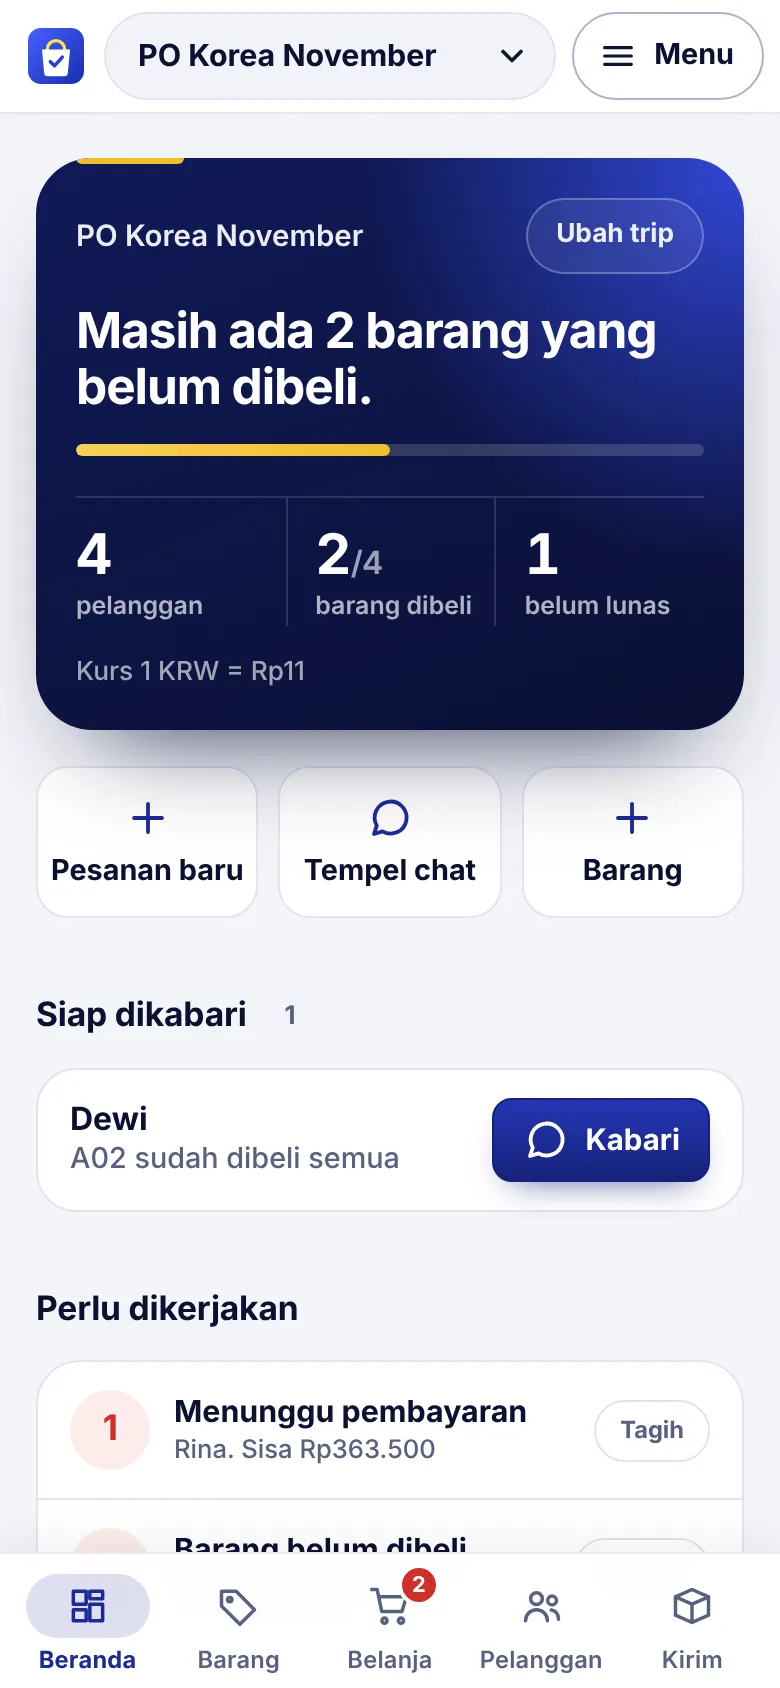
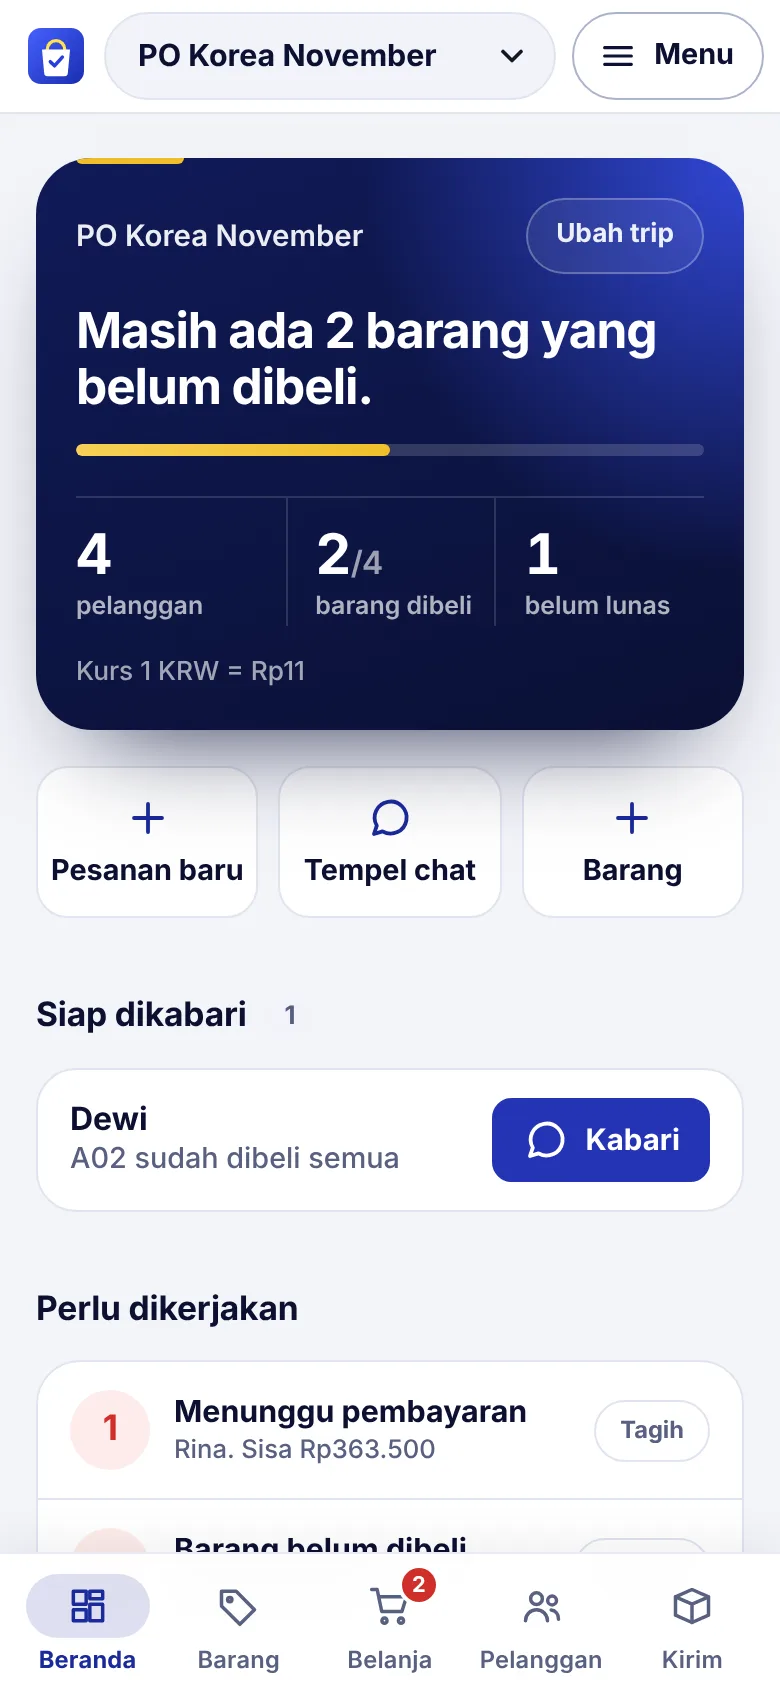
Daftar selebar halaman di laptop/iPad, tombol tanpa glow, pesan singkat satu baris
Claude-Session: https://claude.ai/code/session_01Umsz8aQAUh9Fd5wyBKCHqJ

Changed region(s): [[0.6154, 0.6469, 0.9231, 0.7085]]

diff --git a/app.html b/app.html
@@ -783,6 +783,17 @@ h1,h2,h3,.sh,.nota .who,.nota .big,.profit .v,.pr-card .pi,.lux-st dd,.groups .s
 .pr-card .pi{font-size:1.1rem}
 .nota .big{font-weight:800}
 @media(min-width:600px) and (max-width:899px){nav.tabs .in{max-width:680px}}
+
+/* rapi: daftar satu kelompok selebar halaman, tombol tanpa glow, toast satu baris */
+.groups:has(>.sec:only-child){grid-template-columns:minmax(0,1fr)}
+.cgrid:has(>*:only-child){grid-template-columns:minmax(0,1fr)}
+.btn.primary{box-shadow:none;background:#2433b5;border-color:#2433b5;color:#fff}
+.btn.primary:hover{filter:brightness(1.08)}
+.fab{box-shadow:0 6px 16px -8px rgba(0,0,0,.45)}
+.toast{display:flex;align-items:center;justify-content:center;gap:4px;white-space:nowrap;width:max-content;max-width:calc(100vw - 32px);box-shadow:0 10px 28px -10px rgba(0,0,0,.5);bottom:calc(150px + env(safe-area-inset-bottom,0px))}
+.toast button{margin-left:6px}
+@media(min-width:900px){.toast{bottom:32px}}
+.cgrid.kg{grid-template-columns:minmax(0,1fr)!important}
 </style>
 </head>
 <body>
@@ -2228,7 +2239,7 @@ function viewKirim(C){
   var list=f==='sent'?sent:f==='tunggu'?tunggu:proses.slice().sort(function(a,b){return P.indexOf(a.stage)-P.indexOf(b.stage)});
   if(!list.length)return h+'<div class="empty">'+(f==='proses'?'Tidak ada yang perlu diproses sekarang.':f==='sent'?'Belum ada pesanan yang terkirim.':'Tidak ada pesanan yang menunggu.')+'</div></div>';
   var last='';
-  h+='<div class="cgrid">'+list.map(function(c){
+  h+='<div class="cgrid kg">'+list.map(function(c){
     var g=f==='proses'?stageLabel(c.stage):'',lab=g&&g!==last?'<div class="label" style="grid-column:1/-1;margin:8px 0 0">'+esc(g)+'</div>':'';last=g||last;
     var sub=(c.rows.length+c.hold.length)+' barang'+(c.resi?' · '+esc(c.resi):'')+(c.stage==='bayar'?' · menunggu bayar':c.stage==='belanja'?' · barang belum semua dibeli':'');
     var open=(c.stage==='bayar'||c.stage==='belanja')?'cust-open':'ship-open';
